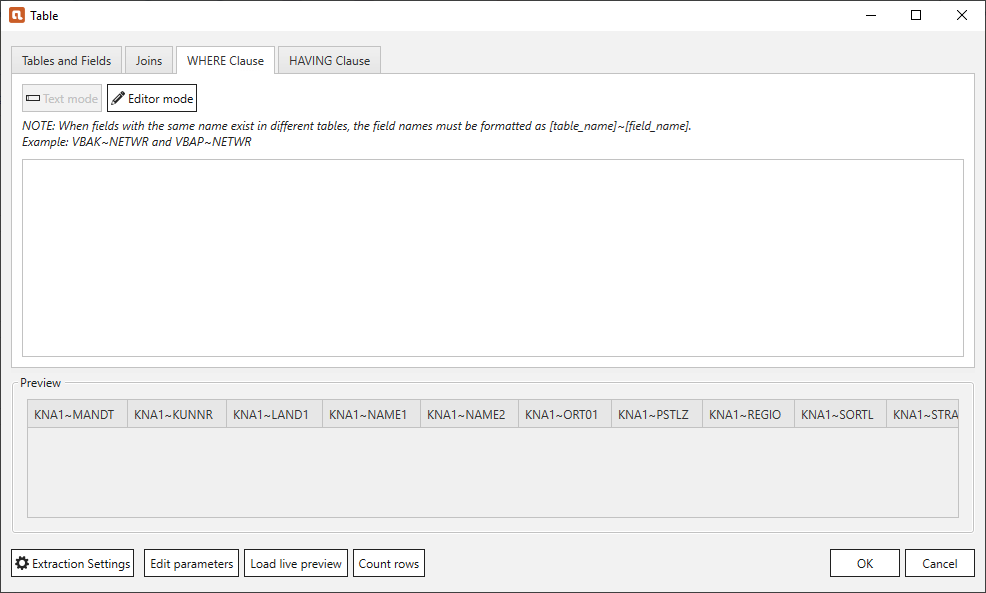
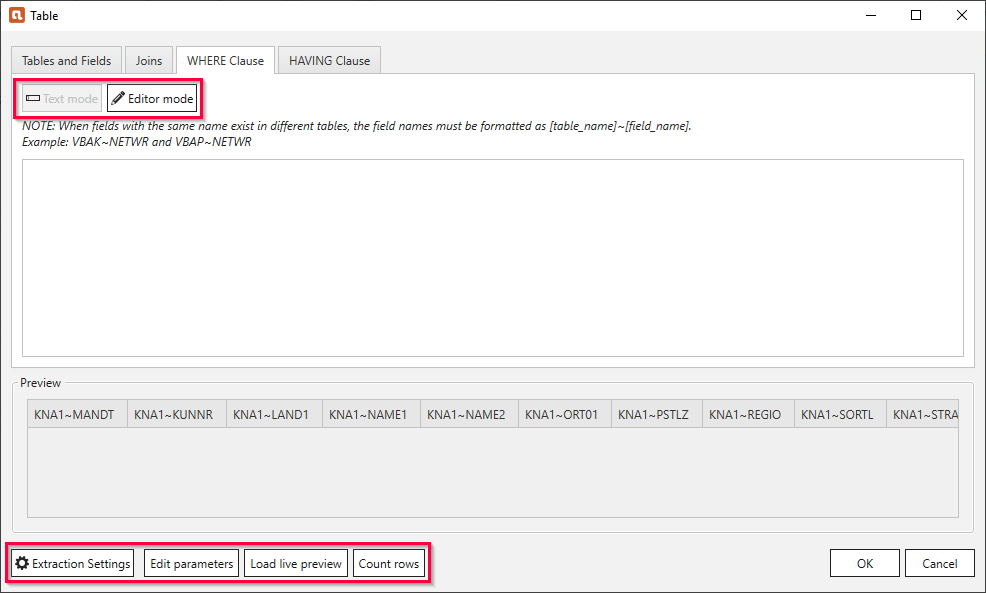
screenshot update + conditional buttons in include
script expressions only in XU/BC

Changed region(s): [[0.0, 0.9106, 0.4564, 1.0], [0.0, 0.1214, 0.213, 0.2125]]

diff --git a/_includes/_content/en/tables/where-clause.md b/_includes/_content/en/tables/where-clause.md
@@ -41,11 +41,12 @@ You can also preview the data with aggregation functions.
 **[Count rows]** <br>
 Returns the number of rows/data records of an extraction, considering the WHERE and HAVING clauses stored. 
 
+{% if page.product != "xtract-for-alteryx" %}
 **[Refresh metadata]** <br>
 A new lookup is performed on the selected table(s). Existing mappings and field selections are retained, which is not the case when the table is added again. <br>
 It may be necessary to renew the metadata, for example, if a table has been adjusted on the SAP side, another source system has been connected, or the source system has been updated. 
 In such cases, data inconsistencies can occur that are resolved by this function.   
-
+{% endif %}
 
 ### WHERE Clause Restrictions
 
@@ -101,15 +102,16 @@ The extractions fail, if incorrect syntax is used in the WHERE clause. Make sure
 
 Get more details on the OpenSQL syntax on the [SAP help site - Select WHERE](https://help.sap.com/doc/abapdocu_752_index_htm/7.52/en-US/abapwhere.htm?file=abapwhere.htm) 
 
+{% if page.product == "xtract-universal" or page.product == "board-connector" %}
+<!--- Script Expressions are not supported by Xtract IS and Xtract for Alteryx-->
+
 ### Script Expressions
 
 The **[Text Mode]** of the WHERE clause supports script expressions.
 They are usually used to determine a dynamic date based on the current date. <br>
 When using script expressions in a WHERE Clause, the value must be entered in single quotation marks.
-{% if page.product == "xtract-universal" %}
-For more information on script expression, see [Script Expressions](../advanced-techniques/script-expressions).
-{% endif %}
 
+For more information on script expression, see [Script Expressions](../advanced-techniques/script-expressions).
 
 **Syntax:**<br>
 ```[Field_name][Space][Operator][Space]'#[Script-Expression]#'```<br>
@@ -124,6 +126,8 @@ For more information on script expression, see [Script Expressions](../advanced-
 |```#{ String.Concat(DateTime.Now.ToString("yyyy"), "0101") }#```                    | yyyy0101 | Current year concatenated with "0101"            |
 |```#{ String.Concat(DateTime.Now.ToString("yyyyMMdd").Substring(0,4), "0101") }#``` | yyyy0101 | Current year concatenated with "0101"           |
 
+<!--- Script Expressions are not supported by Xtract IS and Xtract for Alteryx-->
+{% endif %}
 
 ### Using Subqueries
 

diff --git a/_includes/_content/de/table/where-bedingung.md b/_includes/_content/de/table/where-bedingung.md
@@ -39,10 +39,12 @@ Daten mit Aggregatfunktionen lassen sich auch als Vorschau anzeigen.
 **[Count rows]** <br>
 Gibt die Anzahl der Zeilen/Datensätze einer Extraktion aus unter Berücksichtigung der hinterlegten WHERE- und HAVING-Bedingungen. 
 
+{% if page.product != "xtract-for-alteryx" %}
 **[Refresh Metadata]** <br>
 Durchführung eines erneuten Lookups auf die selektierte(n) Tabelle(n). Bestehende Mappings und Feldselektionen bleiben dabei erhalten, anders als beim erneuten Hinzufügen.<br>
 Die *Refresh Metadata* Funktionalität kann z.B. notwendig sein, wenn eine Tabelle SAP-seitig angepasst, ein anderes Quellsystem angebunden, oder ein Update des Quellsystems durchgeführt wurde. In solchen Fällen kann es zu Datenschiefständen kommen, die durch diese Funktion bereinigt werden.   
- 
+{% endif %}
+
 ### Einschränkungen bei WHERE-Bedingungen
 
 {: .box-note }
@@ -103,6 +105,8 @@ Stellen Sie sicher, dass Sie die korrekte SAP OpenSQL-Syntax verwenden. Einige w
 
 Für mehr Informationen über die OpenSQL-Syntax, siehe [SAP Help: Select WHERE](https://help.sap.com/doc/abapdocu_752_index_htm/7.52/de-DE/abapwhere.htm?file=abapwhere.htm). 
 
+{% if page.product == "xtract-universal" or page.product == "board-connector" %}
+<!--- Script Expressions are not supported by Xtract IS and Xtract for Alteryx-->
 
 ### Skript-Ausdrücke
 
@@ -126,6 +130,8 @@ Für mehr Informationen zu Skript-Ausdrücken, siehe [Skript-Ausdrücke](../fort
 |```#{ String.Concat(DateTime.Now.ToString("yyyy"), "0101") }#```                    | yyyy0101 | Aktuelles Datum verkettet mit "0101"            |
 |```#{ String.Concat(DateTime.Now.ToString("yyyyMMdd").Substring(0,4), "0101") }#``` | yyyy0101 | Aktuelles Datum verkettet mit "0101""           |
 
+<!--- Script Expressions are not supported by Xtract IS and Xtract for Alteryx-->
+{% endif %}
 
 ### Verwendung von Subqueries
 

diff --git a/_includes/_content/de/table/where-bedingung-laufzeitparameter.md b/_includes/_content/de/table/where-bedingung-laufzeitparameter.md
@@ -1,7 +1,9 @@
 
 ### Laufzeitparameter im WHERE Clause Editor
 
-1. Klicken Sie im Hauptfenster der Komponente auf **Edit Runtime Parameters**, um Laufzeitparameter anzulegen und zu bearbeiten. 
+Um Laufzeitparameter anzulegen und zuzuweisen, führen Sie die folgenden Schritte aus: 
+
+1. Klicken Sie im Hauptfenster der Komponente auf {% if page.product == "xtract-for-alteryx" %}**[Edit Parameters]**{% else %}**Edit Runtime Parameters**{% endif %}.
 Das Fenster “Edit Runtime Parameters” öffnet sich.<br>
 ![dd-parameters](/img/content/where-clause-parameter.png){:class="img-responsive"}
 2. Klicken Sie auf **[Add Scalar]**, um Skalarparameter zu definieren, die als Platzhalter für echte Werte verwendet werden können.<br>

diff --git a/_includes/_content/en/tables/where-clause-runtime-parameters.md b/_includes/_content/en/tables/where-clause-runtime-parameters.md
@@ -1,7 +1,9 @@
 
 ### Using Runtime Parameters in the WHERE Clause Editor
 
-1. Click **Edit Runtime Parameters** in the main window of the component to create or edit dynamic runtime parameters.
+To create and assign runtime parameters, follow the steps below:
+
+1. In the main window of the component click {% if page.product == "xtract-for-alteryx" %}**[Edit Parameters]**{% else %}**Edit Runtime Parameters**{% endif %}.
 The window “Edit Runtime Parameters” opens.<br>
 ![dd-parameters](/img/content/where-clause-parameter.png){:class="img-responsive"}
 2. Click **[Add Scalar]** to define scalar parameters that can be used as placeholders for actual values.<br>
